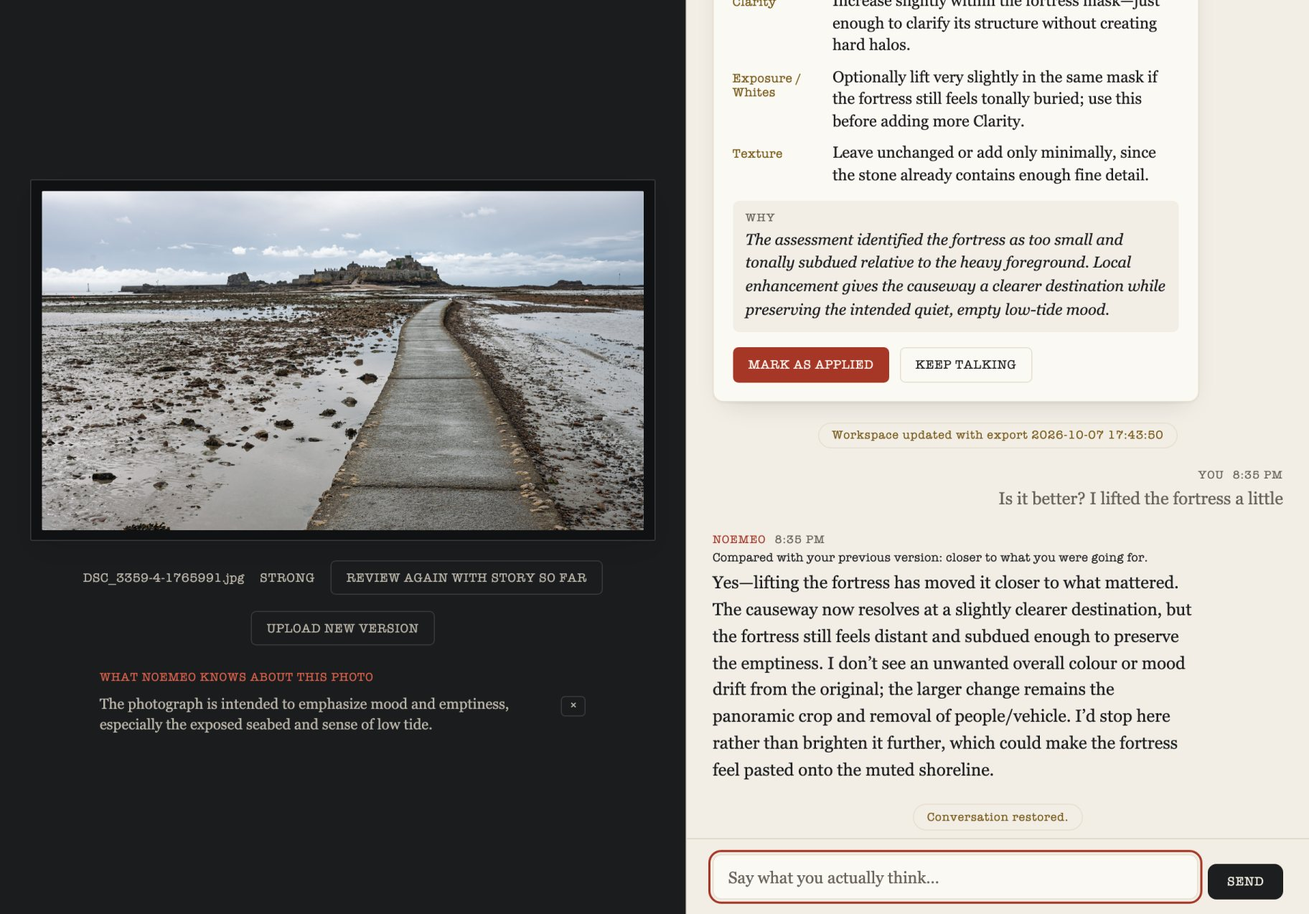
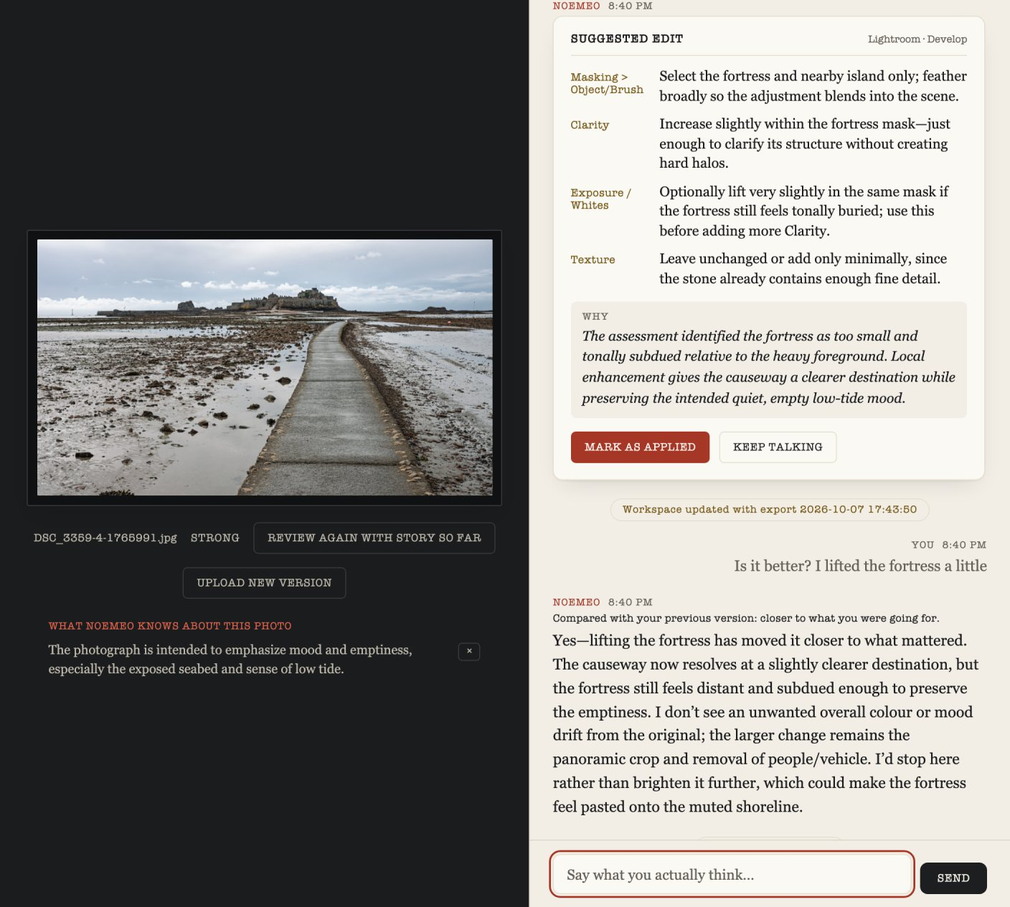
Two columns on wide screens: hero beside the screenshot, demo photos beside the conversation
The single column made the demos a long read with the photos scrolled
away. On wide screens the photos now sit in a column that stays in view
while the conversation scrolls; the hero puts the Workspace screenshot
(recaptured so the suggested-edit card is whole) beside the text, and
the three steps sit side by side. Prose keeps its 46rem line length.
Phones and tablets stay single-column.

diff --git a/index.html b/index.html
@@ -47,7 +47,9 @@
   }
   a { color: var(--signal); text-underline-offset: 0.18em; }
   a:focus-visible { outline: 2px solid var(--signal); outline-offset: 3px; border-radius: 2px; }
-  .wrap { max-width: 46rem; margin: 0 auto; padding: 0 1.25rem; }
+  .wrap { max-width: 68rem; margin: 0 auto; padding: 0 1.25rem; }
+  /* Prose keeps a comfortable line length on the wider page. */
+  section > p, section > ul, section > .note, section > ol.steps, .demo-talk .fine { max-width: 46rem; }
 
   header.top { border-bottom: 1px solid var(--line); }
   header.top .wrap { display: flex; align-items: baseline; justify-content: space-between; gap: 1rem; padding-top: 1.1rem; padding-bottom: 1.1rem; }
@@ -123,7 +125,7 @@
   .edit dd { margin: 0.15rem 0 0.6rem; color: var(--fog); font-size: 0.95rem; }
   .edit dd:last-child { margin-bottom: 0; }
   .what { margin: 0 0 1.75rem; max-width: 36rem; font-size: 0.95rem; }
-  .shot { margin: 0 calc(50% - min(32rem, 50vw - 2rem)) 1rem; }
+  .shot { margin: 2rem 0 0; }
   .shot img { border: 1px solid var(--line); border-radius: 8px; }
   .shot figcaption { text-transform: none; letter-spacing: 0; font-family: inherit; font-size: 0.85rem; }
   .tier-meaning { margin: -0.3rem 0 1.1rem; font-size: 0.85rem; font-style: italic; color: var(--fog); }
@@ -144,6 +146,17 @@
   .assessment li + li { margin-top: 0.3rem; }
   .diffs { margin: 0; padding-left: 1.1rem; font-size: 0.95rem; }
   .diffs li + li { margin-top: 0.3rem; }
+  /* ---------- wide screens: two columns where there's something to look at ---------- */
+  .hero-text .what { margin-bottom: 1.75rem; }
+  @media (min-width: 960px) {
+    .hero { display: grid; grid-template-columns: minmax(0, 1fr) minmax(0, 1.05fr); gap: 3rem; align-items: center; }
+    .hero .shot { margin: 0; }
+    .demo { display: grid; grid-template-columns: minmax(0, 5fr) minmax(0, 7fr); gap: 2.5rem; align-items: start; }
+    .demo-photos { position: sticky; top: 1.25rem; }
+    .demo .pair { grid-template-columns: 1fr; gap: 1rem; margin: 0; }
+    .demo .turn { grid-template-columns: 6.5rem 1fr; }
+    section > ol.steps { max-width: none; grid-template-columns: repeat(3, 1fr); gap: 2rem; }
+  }
   /* ---------- enlarge photos (lightbox) ---------- */
   .zoom {
     display: block;
@@ -219,21 +232,23 @@
 
   <main class="wrap">
     <div class="hero">
+      <div class="hero-text">
       <p class="eyebrow">For photographers</p>
       <h1>Edit with a creative peer.</h1>
       <p class="lede">A second pair of eyes for your edits, and a way to learn why they work.</p>
       <p class="lede-more">Noemeo looks at your photo the way a fellow photographer would — what’s working, what’s holding it back, what you might try next — and talks it through with you. Post-processing becomes a conversation, not a chore.</p>
       <p class="what"><strong>Noemeo Workspace is a desktop app for macOS</strong> (Windows support is planned). It reviews your photos and suggests edits; it never changes them. You make the edits yourself, in Lightroom Classic or whichever editor you use.</p>
       <a class="button" href="#beta">Request beta access</a>
+      </div>
+      <div class="shot">
+        <figure>
+          <img src="images/workspace.jpg" width="1408" height="1265"
+               alt="Noemeo Workspace: on the left, the low-tide photo with its tier, Strong, and a note of what Noemeo knows about it: the photo is meant to emphasise mood, emptiness and the low tide. On the right, the conversation: the photographer asks whether lifting the fortress made it better, and Noemeo answers that it moved closer to what mattered and suggests stopping there.">
+          <figcaption>Noemeo Workspace, open on the session below.</figcaption>
+        </figure>
+      </div>
     </div>
 
-    <div class="shot">
-      <figure>
-        <img src="images/workspace.jpg" width="1824" height="1274"
-             alt="Noemeo Workspace: on the left, the low-tide photo with its tier, Strong, and a note of what Noemeo knows about it: the photo is meant to emphasise mood, emptiness and the low tide. On the right, the conversation: the photographer asks whether lifting the fortress made it better, and Noemeo answers that it moved closer to what mattered and suggests stopping there.">
-        <figcaption>Noemeo Workspace, open on the session shown below. The photo and what Noemeo knows about it on the left, the conversation on the right.</figcaption>
-      </figure>
-    </div>
 
     <section aria-labelledby="how">
       <p class="eyebrow">How it works</p>
@@ -266,134 +281,146 @@
     <section aria-labelledby="example">
       <p class="eyebrow">A real session</p>
       <h2 id="example">Low tide: what is the photo about?</h2>
-      <div class="pair">
-        <figure>
-          <img src="images/lowtide-before.jpg" width="1600" height="1066" loading="lazy"
-               alt="First version: a concrete causeway curves across wet tidal flats toward an island fortress under a pale sky; a lone walker in red is on the causeway near the fortress.">
-          <figcaption>First version</figcaption>
-        </figure>
-        <figure>
-          <img src="images/lowtide-after.jpg" width="1600" height="900" loading="lazy"
-               alt="Final version: a wider, panoramic frame of the empty causeway and exposed seabed, with no walker or vehicle, the fortress slightly brighter at the end of the causeway.">
-          <figcaption>Final version</figcaption>
-        </figure>
-      </div>
+      <div class="demo">
+        <div class="demo-photos">
+          <div class="pair">
+            <figure>
+              <img src="images/lowtide-before.jpg" width="1600" height="1066" loading="lazy"
+                   alt="First version: a concrete causeway curves across wet tidal flats toward an island fortress under a pale sky; a lone walker in red is on the causeway near the fortress.">
+              <figcaption>First version</figcaption>
+            </figure>
+            <figure>
+              <img src="images/lowtide-after.jpg" width="1600" height="900" loading="lazy"
+                   alt="Final version: a wider, panoramic frame of the empty causeway and exposed seabed, with no walker or vehicle, the fortress slightly brighter at the end of the causeway.">
+              <figcaption>Final version</figcaption>
+            </figure>
+          </div>
+        </div>
+        <div class="demo-talk">
 
-      <div class="dialogue">
-        <div class="turn ai">
-          <span class="who">Noemeo</span>
-          <div class="said"><div class="assessment"><p class="assessment-head">Noemeo’s first read · <strong>Competent</strong></p><p class="tier-meaning">Competent and clearly intentional: it has a readable organizing idea and real merits, but remains limited, familiar, or incompletely resolved.</p><dl><dt>Why it works</dt><dd>The curving causeway provides a strong lead-in through the exposed tidal flats and clearly directs the eye toward the island fortress. The lone walker adds scale, narrative, and a useful red accent within the restrained coastal palette. Broad depth of field preserves the foreground textures and distant architecture, while the soft light supports a quiet, exploratory mood.</dd><dt>What could be better</dt><dd>The destination sits small and dark beneath a large, relatively featureless sky, so the visual payoff is weaker than the forceful foreground lead-in promises. The expansive mudflat on the left and heavy pavement at the bottom make the framing feel somewhat loose, while the distant vehicle and scattered visitors dilute the solitary atmosphere. Tonally, the scene is slightly flat and cool.</dd><dt>Suggested edits</dt><dd><ul><li>Crop from the top, left, and slightly from the bottom to enlarge the fortress and walker while retaining the causeway’s curve as the dominant lead-in.</li><li>Apply selective contrast and modest dehazing to the fortress and midground, with a restrained warmer white balance, to improve separation without making the subdued coastal light look artificial.</li></ul></dd></dl></div></div>
-        </div>
-        <p class="omitted">Left out: a new version and one exchange</p>
-        <div class="turn me">
-          <span class="who">Photographer</span>
-          <div class="said"><p>The main point is the mood and emptiness, the sea bottom and the low tide</p></div>
-        </div>
-        <div class="turn ai">
-          <span class="who">Noemeo</span>
-          <div class="said"><p class="aside">Compared with the original: closer to what you were going for</p><p>That changes the read: removing the walker supports your intended emptiness rather than costing the image its narrative anchor. The wide crop also lets the exposed seabed spread laterally, so the low tide feels more expansive, while the causeway still carries the eye toward the island. On that basis, the current version is closer to your aim than the original. The remaining tension is the bright blue vehicle, which now becomes the strongest interruption to the emptiness, and the punchier blue/cyan rendering makes the scene feel crisper rather than especially hushed. I’d keep the framing, mute the vehicle locally, and slightly restrain the blues while preserving the seabed’s texture.</p></div>
-        </div>
-        <p class="omitted">Left out: three new versions and several turns</p>
-        <div class="turn me">
-          <span class="who">Photographer</span>
-          <div class="said"><p>Is it better? I lifted the fortress a little</p></div>
-        </div>
-        <div class="turn ai">
-          <span class="who">Noemeo</span>
-          <div class="said"><p class="aside">Compared with the previous version: closer to what you were going for</p><p>Yes—lifting the fortress has moved it closer to what mattered. The causeway now resolves at a slightly clearer destination, but the fortress still feels distant and subdued enough to preserve the emptiness. I don’t see an unwanted overall colour or mood drift from the original; the larger change remains the panoramic crop and removal of people/vehicle. I’d stop here rather than brighten it further, which could make the fortress feel pasted onto the muted shoreline.</p></div>
+          <div class="dialogue">
+            <div class="turn ai">
+              <span class="who">Noemeo</span>
+              <div class="said"><div class="assessment"><p class="assessment-head">Noemeo’s first read · <strong>Competent</strong></p><p class="tier-meaning">Competent and clearly intentional: it has a readable organizing idea and real merits, but remains limited, familiar, or incompletely resolved.</p><dl><dt>Why it works</dt><dd>The curving causeway provides a strong lead-in through the exposed tidal flats and clearly directs the eye toward the island fortress. The lone walker adds scale, narrative, and a useful red accent within the restrained coastal palette. Broad depth of field preserves the foreground textures and distant architecture, while the soft light supports a quiet, exploratory mood.</dd><dt>What could be better</dt><dd>The destination sits small and dark beneath a large, relatively featureless sky, so the visual payoff is weaker than the forceful foreground lead-in promises. The expansive mudflat on the left and heavy pavement at the bottom make the framing feel somewhat loose, while the distant vehicle and scattered visitors dilute the solitary atmosphere. Tonally, the scene is slightly flat and cool.</dd><dt>Suggested edits</dt><dd><ul><li>Crop from the top, left, and slightly from the bottom to enlarge the fortress and walker while retaining the causeway’s curve as the dominant lead-in.</li><li>Apply selective contrast and modest dehazing to the fortress and midground, with a restrained warmer white balance, to improve separation without making the subdued coastal light look artificial.</li></ul></dd></dl></div></div>
+            </div>
+            <p class="omitted">Left out: a new version and one exchange</p>
+            <div class="turn me">
+              <span class="who">Photographer</span>
+              <div class="said"><p>The main point is the mood and emptiness, the sea bottom and the low tide</p></div>
+            </div>
+            <div class="turn ai">
+              <span class="who">Noemeo</span>
+              <div class="said"><p class="aside">Compared with the original: closer to what you were going for</p><p>That changes the read: removing the walker supports your intended emptiness rather than costing the image its narrative anchor. The wide crop also lets the exposed seabed spread laterally, so the low tide feels more expansive, while the causeway still carries the eye toward the island. On that basis, the current version is closer to your aim than the original. The remaining tension is the bright blue vehicle, which now becomes the strongest interruption to the emptiness, and the punchier blue/cyan rendering makes the scene feel crisper rather than especially hushed. I’d keep the framing, mute the vehicle locally, and slightly restrain the blues while preserving the seabed’s texture.</p></div>
+            </div>
+            <p class="omitted">Left out: three new versions and several turns</p>
+            <div class="turn me">
+              <span class="who">Photographer</span>
+              <div class="said"><p>Is it better? I lifted the fortress a little</p></div>
+            </div>
+            <div class="turn ai">
+              <span class="who">Noemeo</span>
+              <div class="said"><p class="aside">Compared with the previous version: closer to what you were going for</p><p>Yes—lifting the fortress has moved it closer to what mattered. The causeway now resolves at a slightly clearer destination, but the fortress still feels distant and subdued enough to preserve the emptiness. I don’t see an unwanted overall colour or mood drift from the original; the larger change remains the panoramic crop and removal of people/vehicle. I’d stop here rather than brighten it further, which could make the fortress feel pasted onto the muted shoreline.</p></div>
+            </div>
+          </div>
+          <details class="more">
+            <summary>Show the longer excerpt</summary>
+            <div class="dialogue">
+              <div class="turn ai">
+                <span class="who">Noemeo</span>
+                <div class="said"><div class="assessment"><p class="assessment-head">Noemeo’s first read · <strong>Competent</strong></p><p class="tier-meaning">Competent and clearly intentional: it has a readable organizing idea and real merits, but remains limited, familiar, or incompletely resolved.</p><dl><dt>Why it works</dt><dd>The curving causeway provides a strong lead-in through the exposed tidal flats and clearly directs the eye toward the island fortress. The lone walker adds scale, narrative, and a useful red accent within the restrained coastal palette. Broad depth of field preserves the foreground textures and distant architecture, while the soft light supports a quiet, exploratory mood.</dd><dt>What could be better</dt><dd>The destination sits small and dark beneath a large, relatively featureless sky, so the visual payoff is weaker than the forceful foreground lead-in promises. The expansive mudflat on the left and heavy pavement at the bottom make the framing feel somewhat loose, while the distant vehicle and scattered visitors dilute the solitary atmosphere. Tonally, the scene is slightly flat and cool.</dd><dt>Suggested edits</dt><dd><ul><li>Crop from the top, left, and slightly from the bottom to enlarge the fortress and walker while retaining the causeway’s curve as the dominant lead-in.</li><li>Apply selective contrast and modest dehazing to the fortress and midground, with a restrained warmer white balance, to improve separation without making the subdued coastal light look artificial.</li></ul></dd></dl></div></div>
+              </div>
+              <p class="omitted">New version</p>
+              <div class="turn me">
+                <span class="who">Photographer</span>
+                <div class="said"><p>Do you like this more?</p></div>
+              </div>
+              <div class="turn ai">
+                <span class="who">Noemeo</span>
+                <div class="said"><p class="aside">Compared with the original: further from what you were going for</p><p>Compared with the original, the wider crop is a mixed change and ultimately moves the photograph further from what mattered. Cutting from the bottom reduces some of the heavy pavement, and the fortress appears slightly larger and more prominent. However, the crop also removes the lone walker—the clearest source of scale, narrative, and warm colour—so the causeway now feels empty and the vehicle becomes the most noticeable human-made accent. The sky and left mudflat still occupy substantial space, while the overall rendering has become cooler and more contrasty/saturated, especially in the blue sky; that gives the scene more punch but works against some of its earlier quiet, restrained atmosphere.</p></div>
+              </div>
+              <div class="turn me">
+                <span class="who">Photographer</span>
+                <div class="said"><p>The main point is the mood and emptiness, the sea bottom and the low tide</p></div>
+              </div>
+              <div class="turn ai">
+                <span class="who">Noemeo</span>
+                <div class="said"><p class="aside">Compared with the original: closer to what you were going for</p><p>That changes the read: removing the walker supports your intended emptiness rather than costing the image its narrative anchor. The wide crop also lets the exposed seabed spread laterally, so the low tide feels more expansive, while the causeway still carries the eye toward the island. On that basis, the current version is closer to your aim than the original. The remaining tension is the bright blue vehicle, which now becomes the strongest interruption to the emptiness, and the punchier blue/cyan rendering makes the scene feel crisper rather than especially hushed. I’d keep the framing, mute the vehicle locally, and slightly restrain the blues while preserving the seabed’s texture.</p></div>
+              </div>
+              <p class="omitted">New version</p>
+              <div class="turn me">
+                <span class="who">Photographer</span>
+                <div class="said"><p>I removed a vehicle, applied colour, texture and clarity changes as suggested</p></div>
+              </div>
+              <div class="turn ai">
+                <span class="who">Noemeo</span>
+                <div class="said"><p>The vehicle removal helps the intended emptiness: the causeway now reaches the island without that bright, boxy interruption. The colour treatment remains cool and coastal, and the added texture/clarity makes the exposed seabed read more distinctly as the subject. The trade-off is that the foreground stones and mud now feel a little hard and busy, while the blue sky is relatively vivid for a quiet, austere mood. I’d soften those global changes slightly rather than undo them.</p></div>
+              </div>
+              <p class="omitted">Some turns omitted · new version</p>
+              <div class="turn ai">
+                <span class="who">Noemeo</span>
+                <div class="said"><div class="assessment"><p class="assessment-head">Noemeo’s read, with your story · <strong>Strong</strong></p><p class="tier-meaning">Strong: coherent, engaging, and substantially resolved, with qualities that sustain attention beyond competent execution.</p><dl><dt>Why it works</dt><dd>The exposed seabed dominates convincingly, giving the scene the intended sense of emptiness and tidal isolation. The causeway supplies a strong, gently curving lead toward the fortress, while the subdued gray-brown palette and broad, quiet sky reinforce a bleak coastal mood. Repeated pools, stones, and seaweed add texture without obscuring the destination.</dd><dt>What could be better</dt><dd>The fortress is a little small and tonally subdued relative to the visually heavy foreground, so the causeway’s promise ends at a destination that lacks emphasis. The broad sky and long slab of featureless concrete dilute the tension, while the tiny red buoys near both edges introduce unnecessary color accents. Overall contrast is slightly flat, particularly around the fortress.</dd><dt>Suggested edits</dt><dd><ul><li>Crop modestly from the top and bottom to reduce empty sky and the heaviest foreground concrete while preserving enough exposed seabed to sustain the low-tide story.</li><li>Darken or desaturate the edge buoys and apply restrained local contrast around the fortress and causeway terminus to strengthen the visual destination without breaking the muted mood.</li></ul></dd></dl></div></div>
+              </div>
+              <p class="omitted">Some turns omitted · new version</p>
+              <div class="turn me">
+                <span class="who">Photographer</span>
+                <div class="said"><p>Is it better? I lifted the fortress a little</p></div>
+              </div>
+              <div class="turn ai">
+                <span class="who">Noemeo</span>
+                <div class="said"><p class="aside">Compared with the previous version: closer to what you were going for</p><p>Yes—lifting the fortress has moved it closer to what mattered. The causeway now resolves at a slightly clearer destination, but the fortress still feels distant and subdued enough to preserve the emptiness. I don’t see an unwanted overall colour or mood drift from the original; the larger change remains the panoramic crop and removal of people/vehicle. I’d stop here rather than brighten it further, which could make the fortress feel pasted onto the muted shoreline.</p></div>
+              </div>
+            </div>
+          </details>
+          <p class="fine">From a real session, shared by the photographer. Noemeo’s replies and assessments are unedited; some turns are left out of both views.</p>
         </div>
       </div>
-      <details class="more">
-        <summary>Show the longer excerpt</summary>
-        <div class="dialogue">
-          <div class="turn ai">
-            <span class="who">Noemeo</span>
-            <div class="said"><div class="assessment"><p class="assessment-head">Noemeo’s first read · <strong>Competent</strong></p><p class="tier-meaning">Competent and clearly intentional: it has a readable organizing idea and real merits, but remains limited, familiar, or incompletely resolved.</p><dl><dt>Why it works</dt><dd>The curving causeway provides a strong lead-in through the exposed tidal flats and clearly directs the eye toward the island fortress. The lone walker adds scale, narrative, and a useful red accent within the restrained coastal palette. Broad depth of field preserves the foreground textures and distant architecture, while the soft light supports a quiet, exploratory mood.</dd><dt>What could be better</dt><dd>The destination sits small and dark beneath a large, relatively featureless sky, so the visual payoff is weaker than the forceful foreground lead-in promises. The expansive mudflat on the left and heavy pavement at the bottom make the framing feel somewhat loose, while the distant vehicle and scattered visitors dilute the solitary atmosphere. Tonally, the scene is slightly flat and cool.</dd><dt>Suggested edits</dt><dd><ul><li>Crop from the top, left, and slightly from the bottom to enlarge the fortress and walker while retaining the causeway’s curve as the dominant lead-in.</li><li>Apply selective contrast and modest dehazing to the fortress and midground, with a restrained warmer white balance, to improve separation without making the subdued coastal light look artificial.</li></ul></dd></dl></div></div>
-          </div>
-          <p class="omitted">New version</p>
-          <div class="turn me">
-            <span class="who">Photographer</span>
-            <div class="said"><p>Do you like this more?</p></div>
-          </div>
-          <div class="turn ai">
-            <span class="who">Noemeo</span>
-            <div class="said"><p class="aside">Compared with the original: further from what you were going for</p><p>Compared with the original, the wider crop is a mixed change and ultimately moves the photograph further from what mattered. Cutting from the bottom reduces some of the heavy pavement, and the fortress appears slightly larger and more prominent. However, the crop also removes the lone walker—the clearest source of scale, narrative, and warm colour—so the causeway now feels empty and the vehicle becomes the most noticeable human-made accent. The sky and left mudflat still occupy substantial space, while the overall rendering has become cooler and more contrasty/saturated, especially in the blue sky; that gives the scene more punch but works against some of its earlier quiet, restrained atmosphere.</p></div>
-          </div>
-          <div class="turn me">
-            <span class="who">Photographer</span>
-            <div class="said"><p>The main point is the mood and emptiness, the sea bottom and the low tide</p></div>
-          </div>
-          <div class="turn ai">
-            <span class="who">Noemeo</span>
-            <div class="said"><p class="aside">Compared with the original: closer to what you were going for</p><p>That changes the read: removing the walker supports your intended emptiness rather than costing the image its narrative anchor. The wide crop also lets the exposed seabed spread laterally, so the low tide feels more expansive, while the causeway still carries the eye toward the island. On that basis, the current version is closer to your aim than the original. The remaining tension is the bright blue vehicle, which now becomes the strongest interruption to the emptiness, and the punchier blue/cyan rendering makes the scene feel crisper rather than especially hushed. I’d keep the framing, mute the vehicle locally, and slightly restrain the blues while preserving the seabed’s texture.</p></div>
-          </div>
-          <p class="omitted">New version</p>
-          <div class="turn me">
-            <span class="who">Photographer</span>
-            <div class="said"><p>I removed a vehicle, applied colour, texture and clarity changes as suggested</p></div>
-          </div>
-          <div class="turn ai">
-            <span class="who">Noemeo</span>
-            <div class="said"><p>The vehicle removal helps the intended emptiness: the causeway now reaches the island without that bright, boxy interruption. The colour treatment remains cool and coastal, and the added texture/clarity makes the exposed seabed read more distinctly as the subject. The trade-off is that the foreground stones and mud now feel a little hard and busy, while the blue sky is relatively vivid for a quiet, austere mood. I’d soften those global changes slightly rather than undo them.</p></div>
-          </div>
-          <p class="omitted">Some turns omitted · new version</p>
-          <div class="turn ai">
-            <span class="who">Noemeo</span>
-            <div class="said"><div class="assessment"><p class="assessment-head">Noemeo’s read, with your story · <strong>Strong</strong></p><p class="tier-meaning">Strong: coherent, engaging, and substantially resolved, with qualities that sustain attention beyond competent execution.</p><dl><dt>Why it works</dt><dd>The exposed seabed dominates convincingly, giving the scene the intended sense of emptiness and tidal isolation. The causeway supplies a strong, gently curving lead toward the fortress, while the subdued gray-brown palette and broad, quiet sky reinforce a bleak coastal mood. Repeated pools, stones, and seaweed add texture without obscuring the destination.</dd><dt>What could be better</dt><dd>The fortress is a little small and tonally subdued relative to the visually heavy foreground, so the causeway’s promise ends at a destination that lacks emphasis. The broad sky and long slab of featureless concrete dilute the tension, while the tiny red buoys near both edges introduce unnecessary color accents. Overall contrast is slightly flat, particularly around the fortress.</dd><dt>Suggested edits</dt><dd><ul><li>Crop modestly from the top and bottom to reduce empty sky and the heaviest foreground concrete while preserving enough exposed seabed to sustain the low-tide story.</li><li>Darken or desaturate the edge buoys and apply restrained local contrast around the fortress and causeway terminus to strengthen the visual destination without breaking the muted mood.</li></ul></dd></dl></div></div>
-          </div>
-          <p class="omitted">Some turns omitted · new version</p>
-          <div class="turn me">
-            <span class="who">Photographer</span>
-            <div class="said"><p>Is it better? I lifted the fortress a little</p></div>
-          </div>
-          <div class="turn ai">
-            <span class="who">Noemeo</span>
-            <div class="said"><p class="aside">Compared with the previous version: closer to what you were going for</p><p>Yes—lifting the fortress has moved it closer to what mattered. The causeway now resolves at a slightly clearer destination, but the fortress still feels distant and subdued enough to preserve the emptiness. I don’t see an unwanted overall colour or mood drift from the original; the larger change remains the panoramic crop and removal of people/vehicle. I’d stop here rather than brighten it further, which could make the fortress feel pasted onto the muted shoreline.</p></div>
-          </div>
-        </div>
-      </details>
-      <p class="fine">From a real session, shared by the photographer. Noemeo’s replies and assessments are unedited; some turns are left out of both views.</p>
     </section>
 
     <section aria-labelledby="compare">
       <p class="eyebrow">Comparing two photos</p>
       <h2 id="compare">Two frames of the same causeway: which one?</h2>
-      <div class="pair">
-        <figure>
-          <img src="images/lowtide-after.jpg" width="1600" height="900" loading="lazy"
-               alt="Shot A: the empty causeway leading to a larger island fortress, with a long concrete foreground and a brighter, broken sky.">
-          <figcaption>Shot A (the photo above)</figcaption>
-        </figure>
-        <figure>
-          <img src="images/compare-b.jpg" width="1600" height="900" loading="lazy"
-               alt="Shot B: a wider frame of the same causeway curving across broad exposed seabed with reddish rocks at left, a small distant fortress, and a darker overhead cloud.">
-          <figcaption>Shot B, a wider frame</figcaption>
-        </figure>
-      </div>
+      <div class="demo">
+        <div class="demo-photos">
+          <div class="pair">
+            <figure>
+              <img src="images/lowtide-after.jpg" width="1600" height="900" loading="lazy"
+                   alt="Shot A: the empty causeway leading to a larger island fortress, with a long concrete foreground and a brighter, broken sky.">
+              <figcaption>Shot A (the photo above)</figcaption>
+            </figure>
+            <figure>
+              <img src="images/compare-b.jpg" width="1600" height="900" loading="lazy"
+                   alt="Shot B: a wider frame of the same causeway curving across broad exposed seabed with reddish rocks at left, a small distant fortress, and a darker overhead cloud.">
+              <figcaption>Shot B, a wider frame</figcaption>
+            </figure>
+          </div>
+        </div>
+        <div class="demo-talk">
 
-      <div class="dialogue">
-        <div class="turn ai">
-          <span class="who">Noemeo</span>
-          <div class="said"><p>A is tighter and more destination-driven: the larger fortress gives the causeway a stronger payoff, though the path becomes a visually heavy foreground slab. B steps back, making the exposed tidal landscape feel broader and lonelier; its stronger left-hand rocks add depth, while the orange buoy near the right edge pulls attention sharply. A’s brighter clouds feel more open, whereas B’s darker overhead cloud gives the scene greater austerity. With no stated purpose yet, these are two distinct emphases rather than a clear winner.</p><div class="edit"><p class="edit-head">Key differences</p><ul class="diffs"><li>A frames the fortress substantially larger, while B makes it a smaller element within a broader tidal landscape.</li><li>A’s causeway enters from the lower right; B places it nearer center and shows more of its curve.</li><li>B includes stronger reddish foreground rocks on the left, creating more texture and depth than A’s smoother mudflats.</li><li>A has brighter, broken clouds near the horizon; B carries a darker overhead cloud layer and mood.</li></ul></div></div>
-        </div>
-        <div class="turn me">
-          <span class="who">Photographer</span>
-          <div class="said"><p>Which image is more eye-catching?</p></div>
-        </div>
-        <div class="turn ai">
-          <span class="who">Noemeo</span>
-          <div class="said"><p class="aside">Favours A</p><p>Shot A is more immediately eye-catching. Its larger, clearer fortress provides a stronger visual payoff, and the brighter sky separates the landmark more decisively. B has richer foreground texture and a moodier atmosphere, but its smaller fortress and broad terrain distribute attention more diffusely; the orange buoy also competes with the intended subject.</p></div>
-        </div>
-        <div class="turn me">
-          <span class="who">Photographer</span>
-          <div class="said"><p>It is a story of a tide</p></div>
-        </div>
-        <div class="turn ai">
-          <span class="who">Noemeo</span>
-          <div class="said"><p class="aside">Favours B</p><p>For a story about the tide, Shot B serves the idea better. Its wider field of exposed rocks, pools, channels, and wet sand makes the retreating sea—not merely the fortress—the subject. The longer causeway reinforces the revealed passage across the seabed. The orange buoy remains distracting, so I would remove or subdue it; a modest sky crop could also give the tidal textures more authority.</p></div>
+          <div class="dialogue">
+            <div class="turn ai">
+              <span class="who">Noemeo</span>
+              <div class="said"><p>A is tighter and more destination-driven: the larger fortress gives the causeway a stronger payoff, though the path becomes a visually heavy foreground slab. B steps back, making the exposed tidal landscape feel broader and lonelier; its stronger left-hand rocks add depth, while the orange buoy near the right edge pulls attention sharply. A’s brighter clouds feel more open, whereas B’s darker overhead cloud gives the scene greater austerity. With no stated purpose yet, these are two distinct emphases rather than a clear winner.</p><div class="edit"><p class="edit-head">Key differences</p><ul class="diffs"><li>A frames the fortress substantially larger, while B makes it a smaller element within a broader tidal landscape.</li><li>A’s causeway enters from the lower right; B places it nearer center and shows more of its curve.</li><li>B includes stronger reddish foreground rocks on the left, creating more texture and depth than A’s smoother mudflats.</li><li>A has brighter, broken clouds near the horizon; B carries a darker overhead cloud layer and mood.</li></ul></div></div>
+            </div>
+            <div class="turn me">
+              <span class="who">Photographer</span>
+              <div class="said"><p>Which image is more eye-catching?</p></div>
+            </div>
+            <div class="turn ai">
+              <span class="who">Noemeo</span>
+              <div class="said"><p class="aside">Favours A</p><p>Shot A is more immediately eye-catching. Its larger, clearer fortress provides a stronger visual payoff, and the brighter sky separates the landmark more decisively. B has richer foreground texture and a moodier atmosphere, but its smaller fortress and broad terrain distribute attention more diffusely; the orange buoy also competes with the intended subject.</p></div>
+            </div>
+            <div class="turn me">
+              <span class="who">Photographer</span>
+              <div class="said"><p>It is a story of a tide</p></div>
+            </div>
+            <div class="turn ai">
+              <span class="who">Noemeo</span>
+              <div class="said"><p class="aside">Favours B</p><p>For a story about the tide, Shot B serves the idea better. Its wider field of exposed rocks, pools, channels, and wet sand makes the retreating sea—not merely the fortress—the subject. The longer causeway reinforces the revealed passage across the seabed. The orange buoy remains distracting, so I would remove or subdue it; a modest sky crop could also give the tidal textures more authority.</p></div>
+            </div>
+          </div>
+          <p class="fine">The whole comparison session, shared by the photographer. Noemeo’s replies are unedited; the key differences it listed are shown for its first reply.</p>
         </div>
       </div>
-      <p class="fine">The whole comparison session, shared by the photographer. Noemeo’s replies are unedited; the key differences it listed are shown for its first reply.</p>
     </section>
 
     <section aria-labelledby="lightroom">
